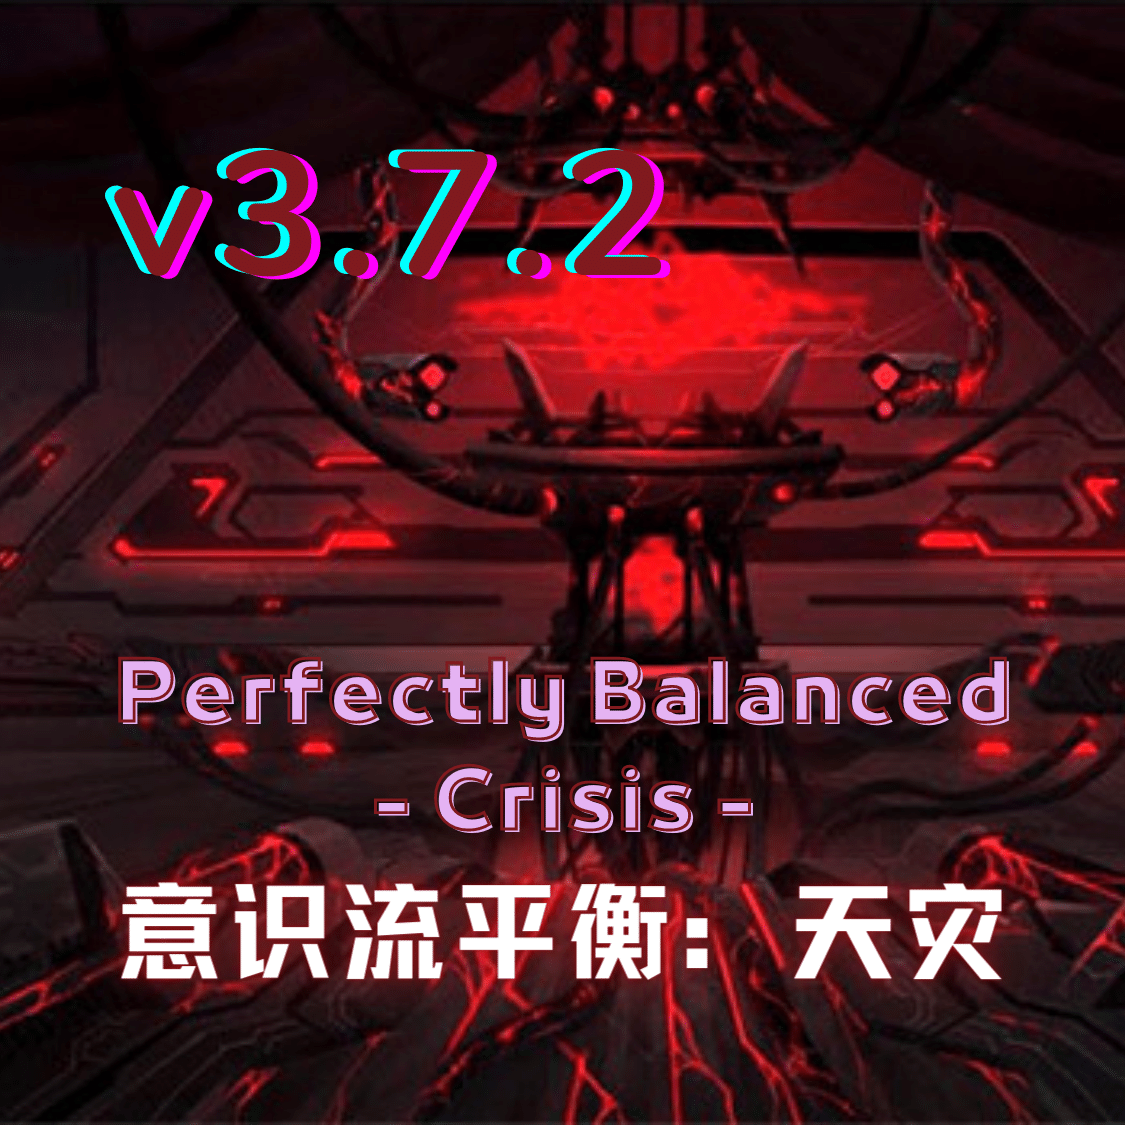
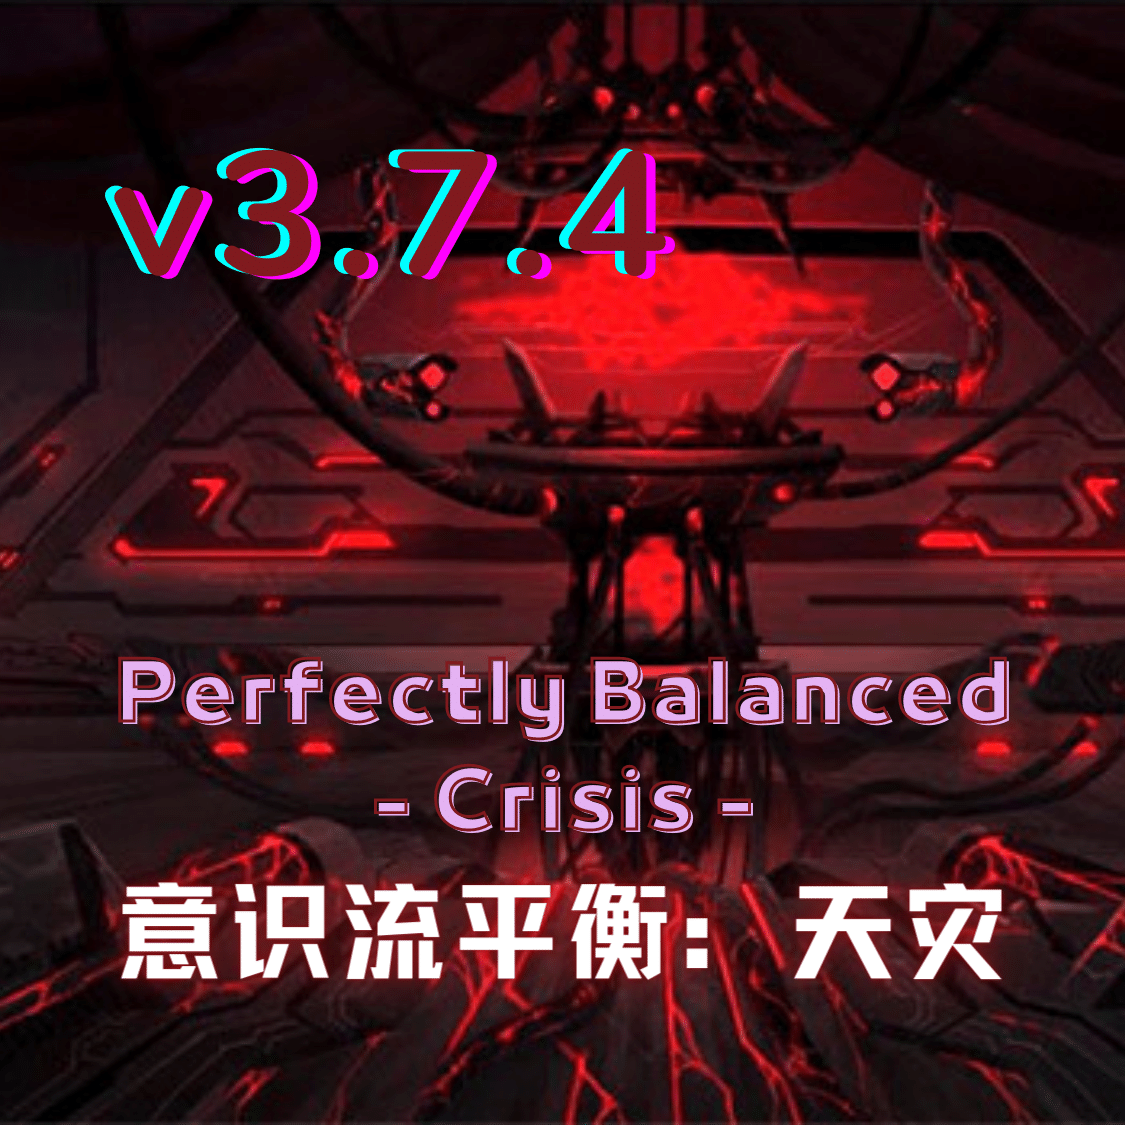
add overflow fix

Changed region(s): [[0.4978, 0.1244, 0.6222, 0.2489]]

diff --git a/README.md b/README.md
@@ -1,16 +1,22 @@
 # Perfectly Balanced - Crisis
 
+The development version of this mod would post on [GitHub](https://github.com/Lyther/PerfectlyBalanced---Crisis). If you want to play the latest version instead of the stable version, please follow the repo and use `git pull` to get the latest commit.
+
 (Not balanced at all!)
 
-The original game's crisis is really boring because of the stupid Paradox's laziness, resulting in the crisis multiplier becoming a bewildering bonus by adding zeros with eyes closed, and not yet over-power enough to balance the level of some powerful mods. Therefore, I have added more types of modifiers to the original crisis attribute bonus, so that crisis ships also gain such as range buff and hull recovery.
+The original game's crisis is boring because of the stupid Paradox's laziness, resulting in the crisis multiplier becoming a bewildering bonus by adding zeros with eyes closed, and not yet over-power enough to balance the level of some powerful mods. Therefore, I have added more types of modifiers to the original crisis attribute bonus, so that crisis ships also gain such as range buff and full recovery.
 
 Different types of natural disasters will receive different bonuses.
 
 * Prethoryn: Greatly enhances damage, hull and armor, and damage to hull/armor.
-* Sentinels: Greatly increases the rate of fire and provides an overall bonus to hull, armor, and shields.
+* Sentinels: This greatly increases the rate of fire and provides an overall bonus to hull, armor, and shields.
 * Extradimensionals: Greatly increases weapon range, hull & shields, and output to hull/shields.
 
 The crisis multiplier can be reset after the game starts by edict.
+
+## Combat power overflow correction
+
+Crisis balance MOD also carried out the combat power overflow correction, the ship and fleet combat power will have a higher ceiling (but the same may happen in the case of a large number of MOD combat power overflow), theoretically can support up to 500G fleet combat power ceiling.
 
 ## Needs to be updated/needs to be compatible
 
@@ -18,9 +24,11 @@ Compatible with almost all mods by default, except some localized language conte
 
 If a new version is released/needs to be compatible with an older version, please let us know via message or private message from Creative Workshop.
 
-Please leave a message through the Creative Workshop for other mods that are compatible, such as new weapon slot types/ship types. I'm also trying to add more types of enhancements to the crisis, such as buff auras, fleet size, ship templates, and leadership traits.
+Please leave a message through the Creative Workshop for compatible mods, such as new weapon slot types/ship types. I'm also trying to add more types of enhancements to the crisis, such as buff auras, fleet size, ship templates, and leadership traits.
 
 # 意识流平衡：天灾
+
+此MOD的开发版本将在[GitHub](https://github.com/Lyther/PerfectlyBalanced---Crisis)进行实时更新，如果您想游玩最新的开发版本而非稳定版本，可以通过GitHub仓库的`git pull`获取最新的commit。
 
 （完全随缘、随便做做数值的平衡！）
 
@@ -33,6 +41,10 @@ Please leave a message through the Creative Workshop for other mods that are com
 * 高维恶魔：极大增加了射程、船体与护盾，以及对船体/护盾的输出。
 
 可以通过法令在游戏开始后进行天灾倍率重新设定。
+
+## 战斗力溢出修正
+
+天灾平衡MOD同样进行了战斗力溢出修正，舰船和舰队的战斗力将会有更高的上限（但同样有可能在大量MOD的情况下发生战斗力溢出），理论上可以支持达到500G的舰队战斗力上限。
 
 ## 需要更新/需要兼容
 
